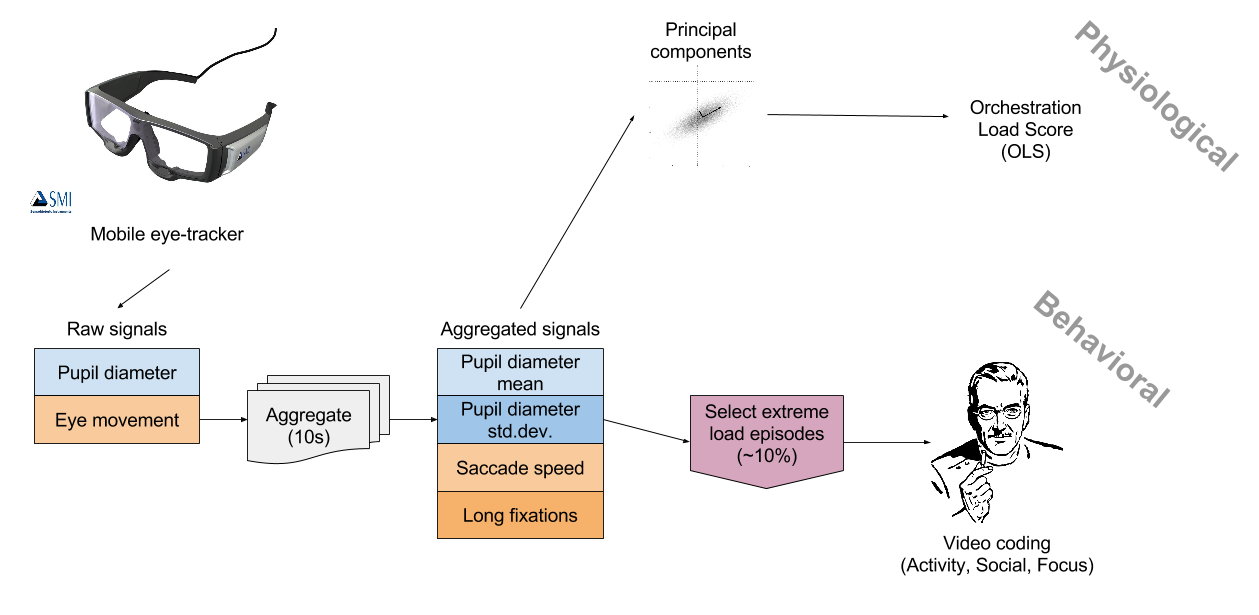
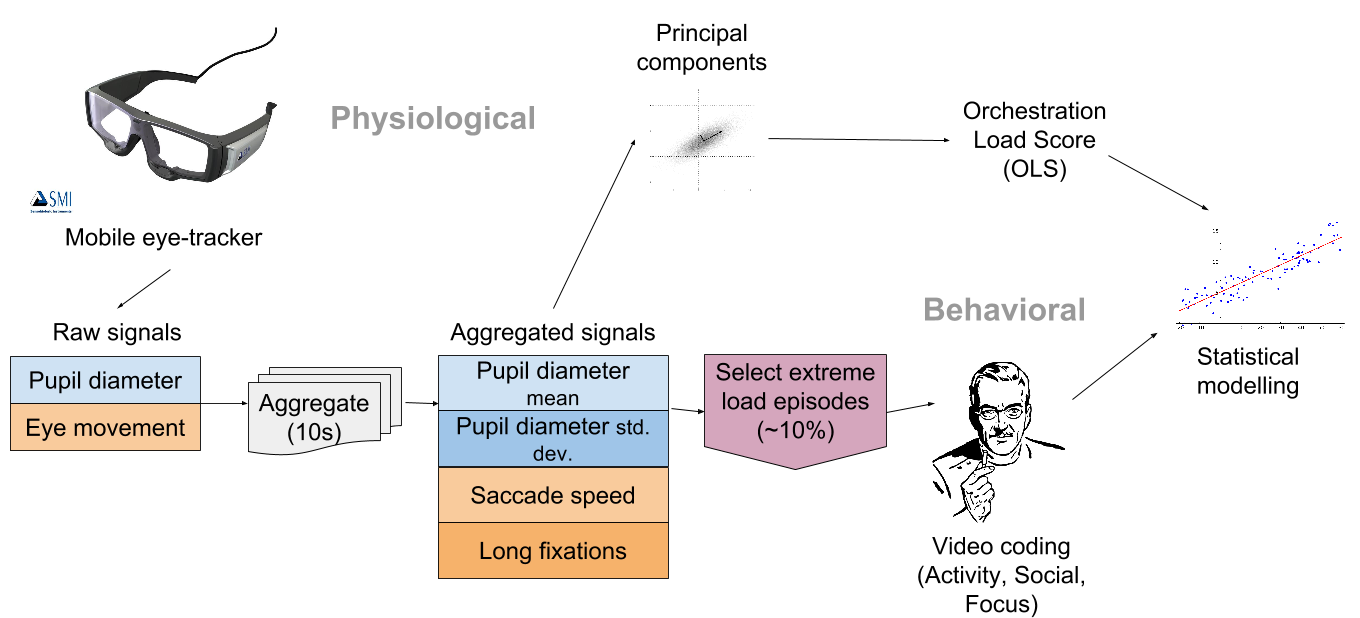
aesthetic changes

diff --git a/manuscript/Prietoetal_OrchestrationLoadEyetracking.tex b/manuscript/Prietoetal_OrchestrationLoadEyetracking.tex
@@ -713,11 +713,10 @@ TODO: Add the manipulated variables too (teacher experience, usual technology, e
 \end{enumerate}
 \end{itemize}
 
-TODO: add joining arrows into "Statistical models" in the figure!
 
 \begin{figure}[!t]
 \centering
-\includegraphics[width=2.5in]{img/AnalysisMethodBase}
+\includegraphics[width=\linewidth]{img/AnalysisMethodBase.png}
 \caption{Diagram representing the physiological-behavioral analysis of orchestration load}
 \label{fig:analysis}
 \end{figure}
@@ -744,7 +743,35 @@ first two sessions of case 2 \cite{Prieto2015ectel}. However, the application of
 
 
 
-(add table 1 from previous paper version, reordering the rows to put study 1 at the end)
+
+
+\begin{table*}[!t]
+%% increase table row spacing, adjust to taste
+%\renewcommand{\arraystretch}{1.3}
+% if using array.sty, it might be a good idea to tweak the value of
+% \extrarowheight as needed to properly center the text within the cells
+\caption{Summary of main case study characteristics}
+\label{tab:cases}
+\centering
+%% Some packages, such as MDW tools, offer better commands for making tables
+%% than the plain LaTeX2e tabular which is used here.
+\begin{tabular}{|c||p{1.5cm}|p{1.5cm}|p{2cm}|p{3.4cm}|p{2cm}|p{3.4cm}|}
+\hline
+Study & Setting & Teachers & Sessions (session length) & Technological support & Main goal & Target variable\\
+\hline
+\hline
+Case 1 & University & 1 expert, 1 novice & 2+1 (45-65') & Laptops, classroom projector & Validate measure/model & Teacher expertise (novice vs. expert) \\
+\hline
+Case 2 & Primary school & 1 expert & 2+2 (80') & Laptops, classroom projector // Tabletops, classroom projector & Validate measure/model & Familiarity with technology (usual vs. novel) \\
+\hline
+Case 3 & Open doors (primary) & 1 novice (researcher) & 4 (35-45') & Tabletops, classroom projector & Validate measure/model & External (human) help (without/with helper) \\
+\hline
+Case 4 & Open doors (primary) & 1 novice (researcher) & 3 (35-45') & Tabletops & Illustrate use & -- \\
+\hline
+\end{tabular}
+\end{table*}
+
+
 
 \subsection{Study 1: Exploring Teacher Expertise in an University Course}
 
